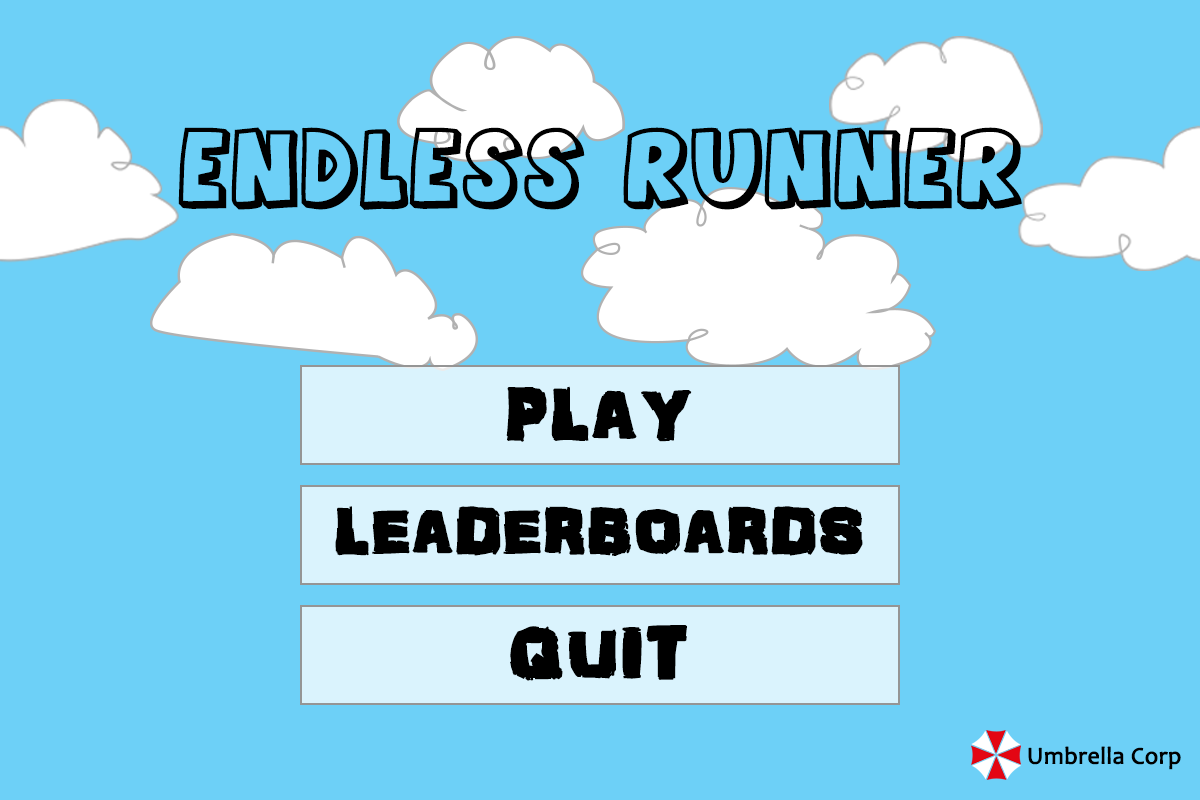
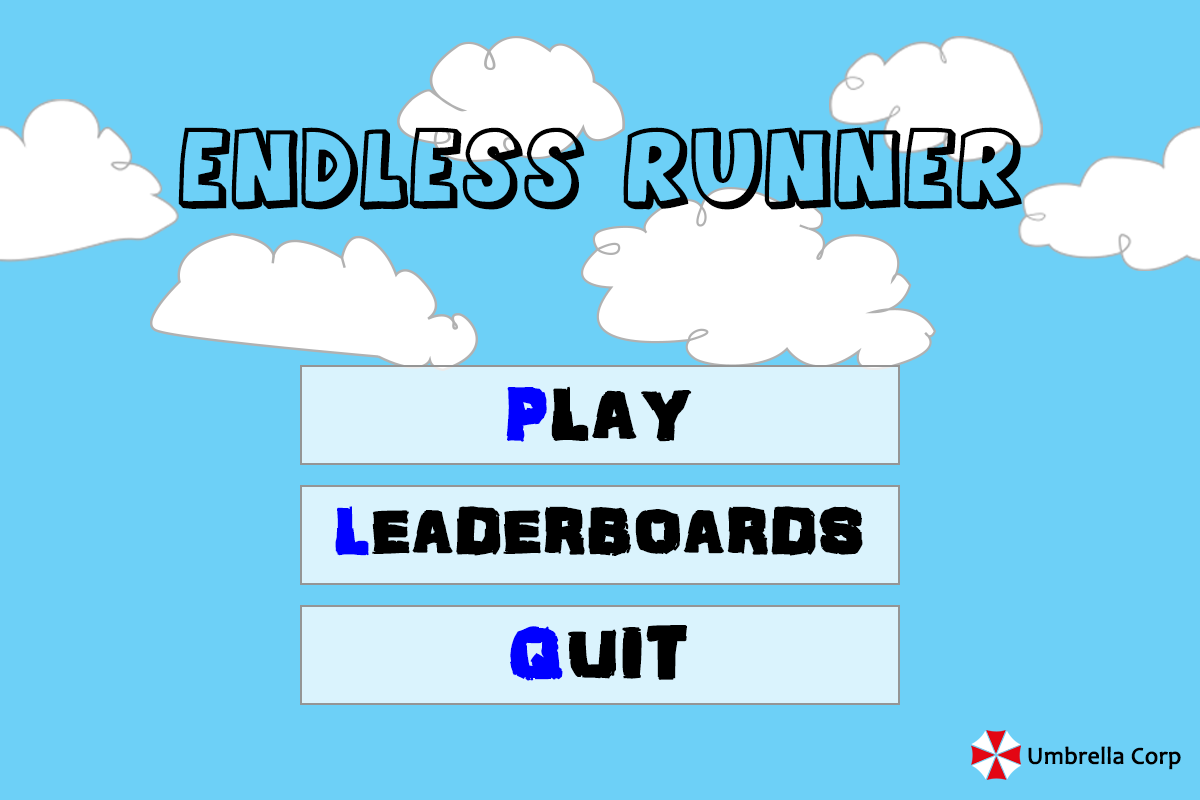
set up states

Changed region(s): [[0.4008, 0.4688, 0.4625, 0.5625], [0.4008, 0.7812, 0.4933, 0.875], [0.2775, 0.625, 0.3083, 0.7188]]

diff --git a/Endless_Runner_2/Endless_Runner_2/States.cpp b/Endless_Runner_2/Endless_Runner_2/States.cpp
@@ -219,6 +219,25 @@ void MainMenu_Gamestate::onActivate()
         render_window.close();
     }
     sStateMain.setTexture(tStateMain);
+    
+    Play.setSize(sf::Vector2f(600, 100));
+    Play.setFillColor(sf::Color::Transparent);
+    Play.setOutlineColor(sf::Color::White);
+    Play.setOutlineThickness(5);
+    Leaderboards.setSize(sf::Vector2f(600, 100));
+    Leaderboards.setFillColor(sf::Color::Transparent);
+    Leaderboards.setOutlineColor(sf::Color::White);
+    Leaderboards.setOutlineThickness(5);
+    Quit.setSize(sf::Vector2f(600, 100));
+    Quit.setFillColor(sf::Color::Transparent);
+    Quit.setOutlineColor(sf::Color::White);
+    Quit.setOutlineThickness(5);
+    
+    
+    Play.setPosition(sf::Vector2f(300, 365));
+    Leaderboards.setPosition(sf::Vector2f(300, 485));
+    Quit.setPosition(sf::Vector2f(300, 605));
+    
 }
 
 void MainMenu_Gamestate::onDeactivate()
@@ -237,18 +256,40 @@ void MainMenu_Gamestate::resume()
 
 void MainMenu_Gamestate::handleInputs()
 {
-    if (sf::Keyboard::isKeyPressed(sf::Keyboard::Space))
+    if (sf::Keyboard::isKeyPressed(sf::Keyboard::P))
     {
-        
+        //start livegame
+    }
+    if (sf::Keyboard::isKeyPressed(sf::Keyboard::L))
+    {
+        //show leaderboards
+    }
+    if (sf::Keyboard::isKeyPressed(sf::Keyboard::Q))
+    {
+        render_window.close();
     }
 }
 void MainMenu_Gamestate::update()
 {
-    
+    if (sf::Keyboard::isKeyPressed(sf::Keyboard::P))
+    {
+        Play.setOutlineColor(sf::Color::Blue);
+    }
+    if (sf::Keyboard::isKeyPressed(sf::Keyboard::L))
+    {
+        Leaderboards.setOutlineColor(sf::Color::Blue);
+    }
+    if (sf::Keyboard::isKeyPressed(sf::Keyboard::Q))
+    {
+        Quit.setOutlineColor(sf::Color::Blue);
+    }
 }
 void MainMenu_Gamestate::draw()
 {
     render_window.draw(sStateMain);
+    render_window.draw(Play);
+    render_window.draw(Leaderboards);
+    render_window.draw(Quit);
 }
 
 
@@ -259,7 +300,11 @@ Pause_Gamestate::Pause_Gamestate(sf::RenderWindow &window, int width, int height
 
 void Pause_Gamestate::onActivate()
 {
-
+    if (!tStatePause.loadFromFile(resourcePath() + "state-pause.png"))
+    {
+        render_window.close();
+    }
+    sStatePause.setTexture(tStatePause);
 }
 void Pause_Gamestate::onDeactivate()
 {
@@ -277,7 +322,11 @@ void Pause_Gamestate::resume()
 
 void Pause_Gamestate::handleInputs()
 {
-    
+    if (sf::Keyboard::isKeyPressed(sf::Keyboard::Space))
+    {
+        //continue livegame
+    }
+
 }
 void Pause_Gamestate::update()
 {
@@ -285,7 +334,7 @@ void Pause_Gamestate::update()
 }
 void Pause_Gamestate::draw()
 {
-    //render_window.draw(state-pause)
+    render_window.draw(sStatePause);
 }
 
 
@@ -296,7 +345,11 @@ GameOver_Gamestate::GameOver_Gamestate(sf::RenderWindow &window, int width, int 
 
 void GameOver_Gamestate::onActivate()
 {
-
+    if (!tStateGameOver.loadFromFile(resourcePath() + "state-gameOver.png"))
+    {
+        render_window.close();
+    }
+    sStateGameOver.setTexture(tStateGameOver);
 }
 void GameOver_Gamestate::onDeactivate()
 {
@@ -314,7 +367,10 @@ void GameOver_Gamestate::resume()
 
 void GameOver_Gamestate::handleInputs()
 {
-
+    if (sf::Keyboard::isKeyPressed(sf::Keyboard::Space))
+    {
+        //go to Main Menu
+    }
 }
 void GameOver_Gamestate::update()
 {

diff --git a/Endless_Runner_2/Endless_Runner_2/States.h b/Endless_Runner_2/Endless_Runner_2/States.h
@@ -109,6 +109,10 @@ class MainMenu_Gamestate : public Gamestate
     
     sf::Texture tStateMain;
     sf::Sprite sStateMain;
+    
+    sf::RectangleShape Play;
+    sf::RectangleShape Leaderboards;
+    sf::RectangleShape Quit;
 
 public:
 	MainMenu_Gamestate(sf::RenderWindow &window, int width, int height, int fps);
@@ -135,6 +139,9 @@ class Pause_Gamestate : public Gamestate
 	//int window_width;
 	//int window_height;
 	//int run_speed;
+    
+    sf::Texture tStatePause;
+    sf::Sprite sStatePause;
 
 public:
 	Pause_Gamestate(sf::RenderWindow &window, int width, int height, int fps);
@@ -161,6 +168,9 @@ class GameOver_Gamestate : public Gamestate
 	//int window_width;
 	//int window_height;
 	//int run_speed;
+    
+    sf::Texture tStateGameOver;
+    sf::Sprite sStateGameOver;
 
 public:
 	GameOver_Gamestate(sf::RenderWindow &window, int width, int height, int fps);
